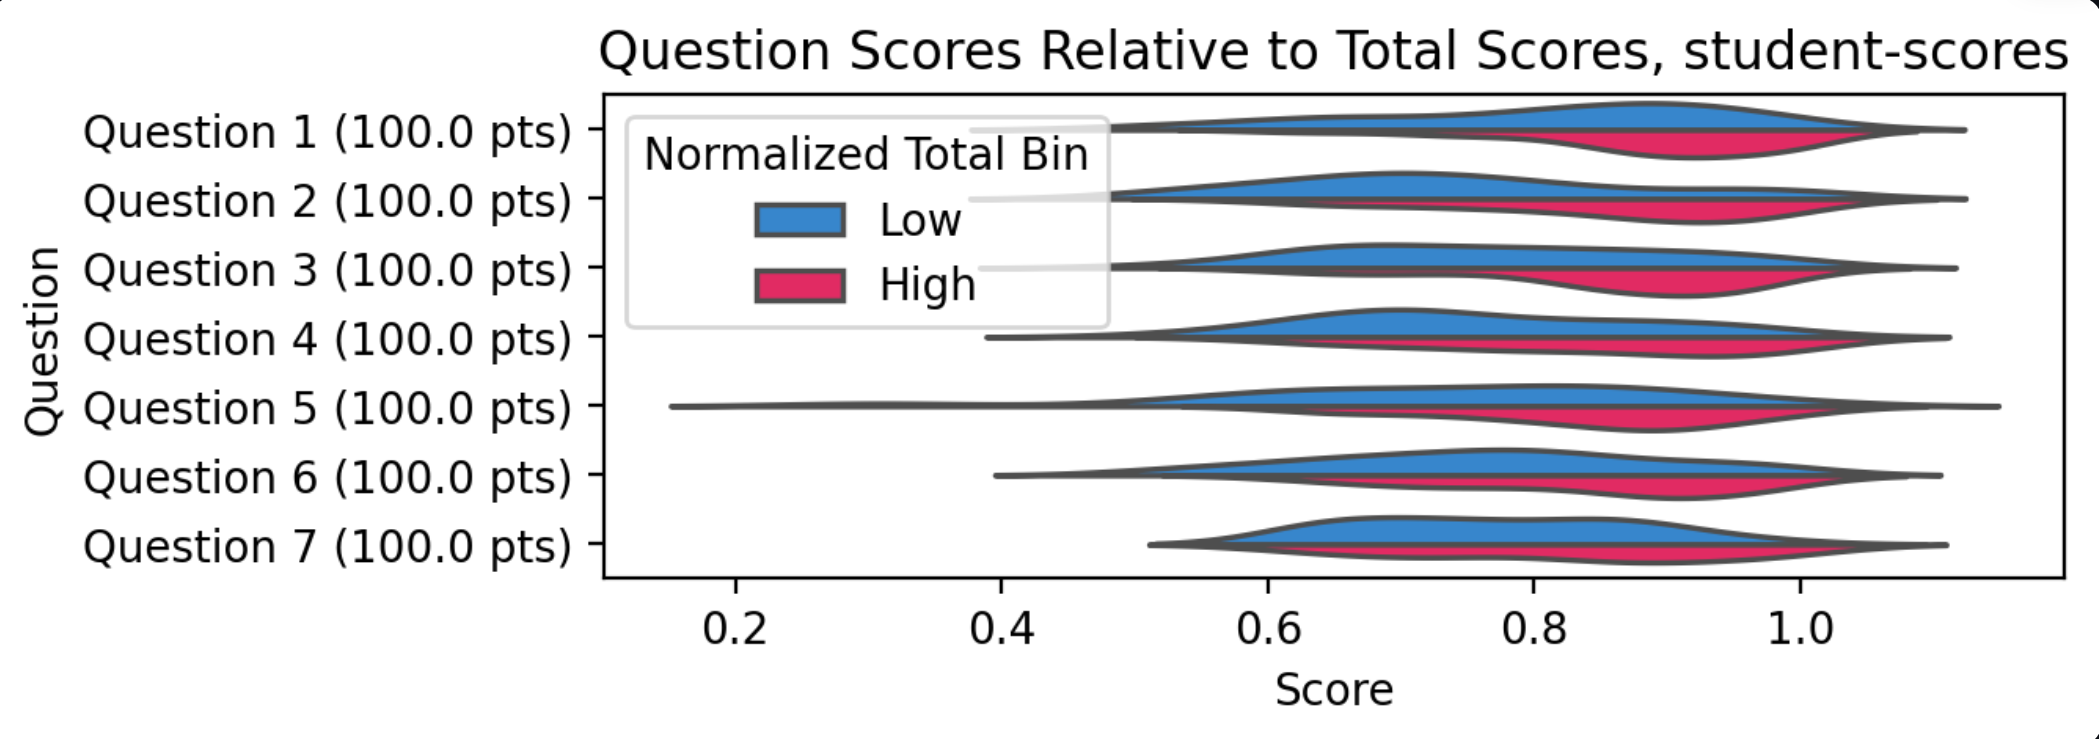
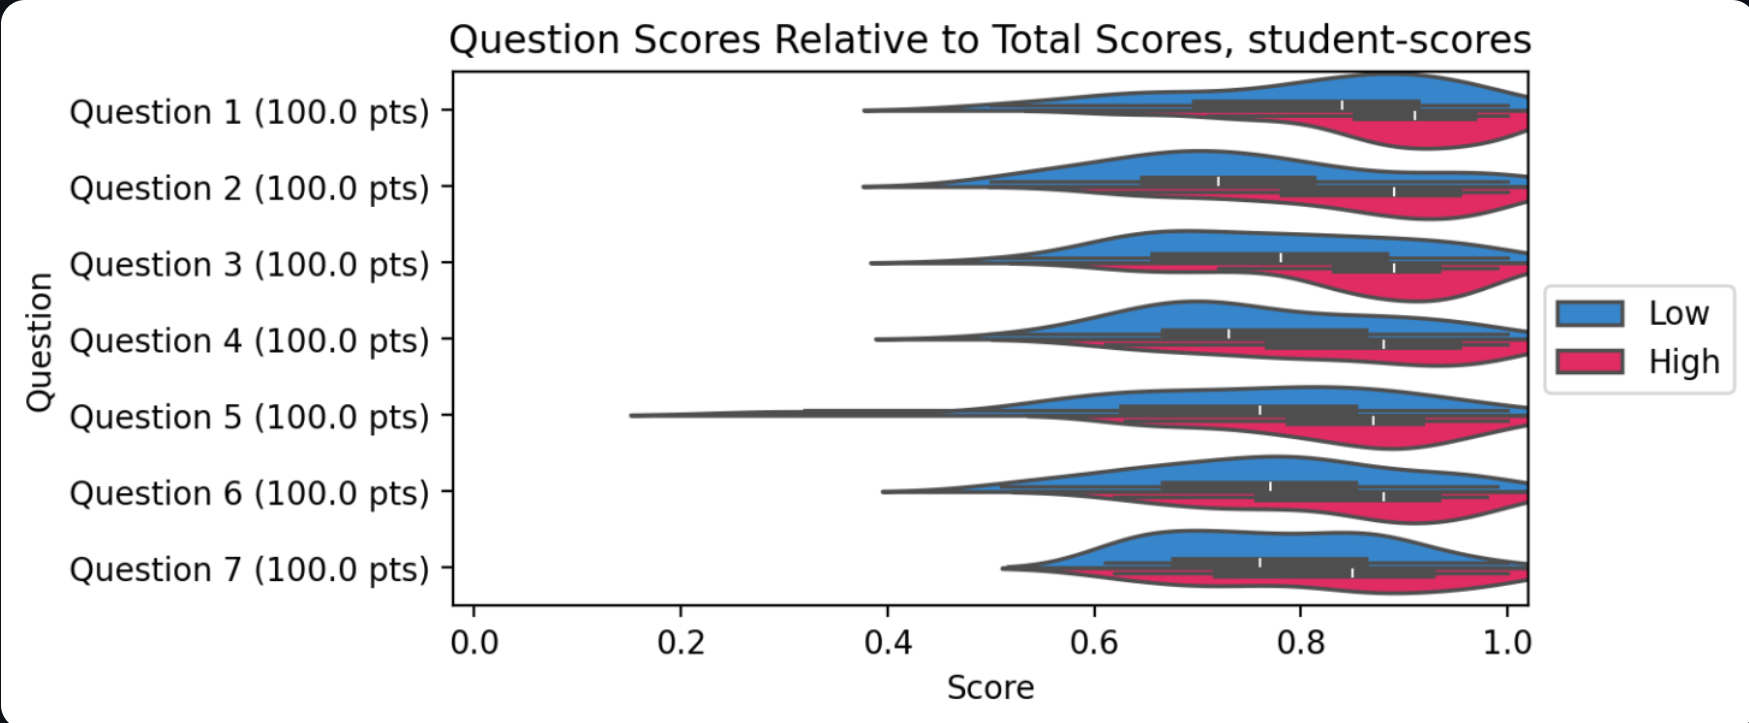
updated plotting

Changed region(s): [[0.0, 0.0304, 1.0, 0.9737], [0.0, 0.0, 0.0309, 0.0304]]

diff --git a/question_analysis.py b/question_analysis.py
@@ -47,14 +47,31 @@ if sc_files:
 	sns.violinplot(
 		total_sc_df,
 		x='Normalized Total', y='Exam',
-		hue='internal_consistency', palette=consistency_cmap, ax=ax
+		hue='internal_consistency', palette=consistency_cmap,
+		ax=ax,
+		width=0.9,
+		inner="box", 
+		inner_kws={"box_width": 4}
 	)
+	ax.set_xlim(-0.02, 1.02)
 	ax.set_title(f"Normalized Exam Total Scores Distribution")
+	ax.legend(loc='center left', bbox_to_anchor=(1, 0.5))
 	st.pyplot(fig)
 
-	plot_df = stats_df.copy()
-	plot_df['cmap'] = plot_df['internal_consistency'].apply(lambda x: consistency_cmap[x])
-	st.bar_chart(plot_df, y='normalized_mean', color='cmap')
+	fig, ax = plt.subplots(figsize=(6, int(stats_df.shape[0]/5)))
+	sns.barplot(
+		total_sc_df,
+		y='Exam',
+		x='Normalized Total',
+		hue='internal_consistency',
+		errorbar='sd',
+		capsize=0.2,
+		palette=consistency_cmap
+	)
+	ax.tick_params(axis='x', rotation=90)
+	ax.set_title(f"Normalized Exam Averages (± SD)")
+	ax.legend(loc='center left', bbox_to_anchor=(1, 0.5))
+	st.pyplot(fig)
 
 	fig, ax = plt.subplots()
 	sns.histplot(stats_df, x='normalized_mean', hue='internal_consistency', palette=consistency_cmap, bins=10)
@@ -91,15 +108,30 @@ if sc_files:
 		sns.violinplot(
 			sc_df_long,
 			x='Score', y='Question', hue='quality', 
-			palette=quality_cmap, ax=ax
+			palette=quality_cmap, ax=ax,
+			width=0.9,
+		    inner="box", 
+		    inner_kws={"box_width": 4}
 		)
+		ax.set_xlim(-0.02, 1.02)
 		ax.set_title(f"Question Scores Distribution, {display_name}")
+		ax.legend(loc='center left', bbox_to_anchor=(1, 0.5))
 		st.pyplot(fig)
 	
-		plot_df = summary.copy()
-		plot_df['cmap'] = plot_df['quality'].apply(lambda x: quality_cmap[x])
-		st.bar_chart(plot_df, y='avg', color='cmap')
+		fig, ax = plt.subplots(figsize=(6, int(summary.shape[0]/5)))
+		sns.barplot(
+			sc_df_long,
+			y='Question',
+			x='Score',
+			hue='quality',
+			errorbar='sd',
+			capsize=0.2,
+			palette=quality_cmap
+		)
 		
+		ax.set_title(f"Question Averages, {display_name}")
+		ax.legend(loc='center left', bbox_to_anchor=(1, 0.5))
+		st.pyplot(fig)
 		fig, ax = plt.subplots()
 		sns.histplot(summary, x='avg', hue='quality', palette=quality_cmap, bins=10)
 		ax.set_title(f"Average Question Scores, {display_name}")
@@ -110,15 +142,20 @@ if sc_files:
 		ax.set_title(f"Discrimination Index, {display_name}")
 		st.pyplot(fig)
 	
-		fig, ax = plt.subplots(figsize=(6, int(summary.shape[0]/2.5)))
+		fig, ax = plt.subplots(figsize=(6, int(summary.shape[0]/2)))
 		sc_df_long['Normalized Total Bin'] = pd.qcut(sc_df_long['Normalized Total'], 2, labels=['Low', 'High'])
 		sns.violinplot(
 			sc_df_long,
 			x='Score', y='Question',
 			split=True, hue='Normalized Total Bin',
-			ax=ax, inner=None,
-			palette={'Low': '#1E88E5', 'High': '#FF0D57'}
+			ax=ax,
+			palette={'Low': '#1E88E5', 'High': '#FF0D57'},
+			width=1,
+		    inner="box", 
+		    inner_kws={"box_width": 3.5}
 		)
+		ax.set_xlim(-0.02, 1.02)
 		ax.set_title(f"Question Scores Relative to Total Scores, {display_name}")
+		ax.legend(loc='center left', bbox_to_anchor=(1, 0.5))
 		st.pyplot(fig)
 	question_breakdown()

diff --git a/helper.py b/helper.py
@@ -11,6 +11,7 @@ col_reg = re.compile(r'\((\d+.\d+)\s+pts\)')
 
 def normalize_total_sc(df):
 	full_sc = 0
+	match = None
 	for col in extract_question_cols(df):
 		match = col_reg.search(col)
 		if (match):
@@ -23,9 +24,11 @@ def calc_cronbach_alpha(df):
 	for col in df.columns:
 		if "Question" in col:
 			var_list.append(df[col].std()**2)
+	n = len(var_list)
+	if n <= 1:
+		return 0
 	sum_var = np.sum(var_list)
 	total_sc_var = df['Total Score'].std() ** 2
-	n = df.shape[0]
 	ca = n/(n-1)*(1 - sum_var/total_sc_var)
 	return ca
 
@@ -74,7 +77,7 @@ def get_normalized_question_sc(sc_df):
 	for col in sc_df.columns:
 		if "Question" in col:
 			match = col_reg.search(col)
-		if (match):
+			if (match):
 				full_sc = float(match.group(1))
 				norm_scores = sc_df[col].apply(lambda x: x/full_sc)
 				norm_df_list.append(norm_scores)
